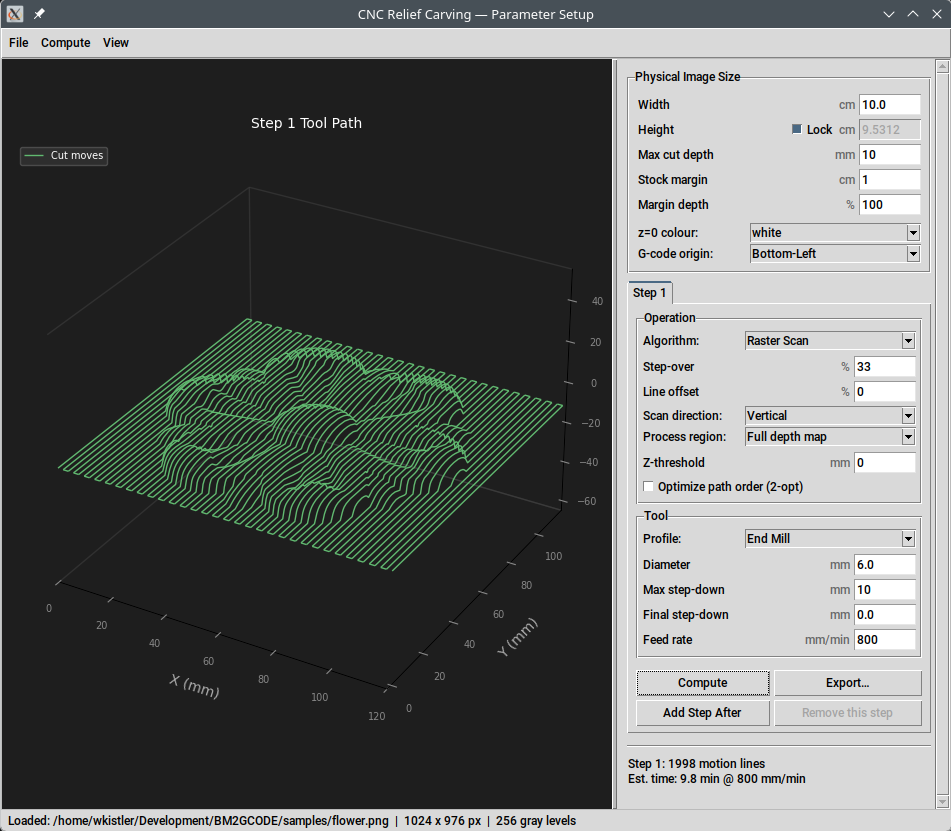
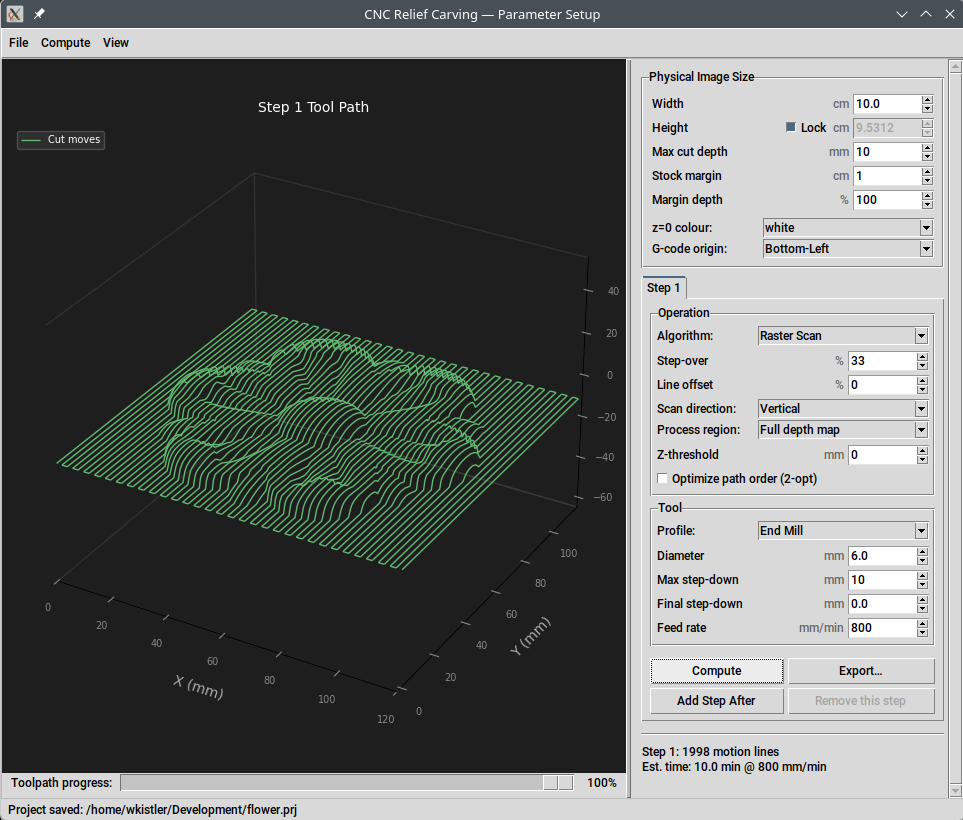
README.md updated

diff --git a/README.md b/README.md
@@ -229,6 +229,8 @@ This section describes how each algorithm works internally — the pipeline stag
 - *V-Bit*: cone slope — `r / (tan(half-angle) × max_depth)`
 - *End Mill*: zero inside the radius, infinity outside
 
+**Accessibility caching.** The grey-erosion/grey-dilation pair above is the most expensive part of computing a step, and it depends only on the tool geometry, Max cut depth, and the work area's physical dimensions — not on step-down, threshold, gating mode, or any other per-step parameter. bm2gcode keeps a cache of these accessibility maps keyed by that combination, so recomputing a step after tweaking an unrelated parameter, or computing a later step with the same tool, reuses the previously computed result instead of rerunning the erosion/dilation. The cache is cleared whenever the source image or project changes.
+
 **Result map.** After each step is computed, a float32 *result map* records how deep the material has been cut at every pixel. This is passed to the next step as the prior reference, enabling the Residual and Reachable gating modes.
 
 ---
